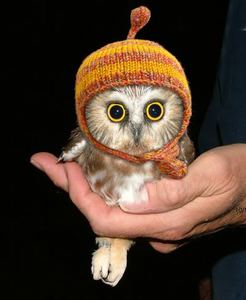
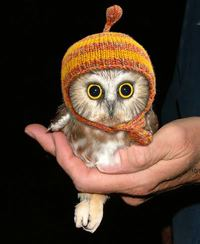
made profile pic clickable to see public profile

diff --git a/app/models/user_profile.rb b/app/models/user_profile.rb
@@ -2,7 +2,7 @@ class UserProfile < ActiveRecord::Base
 	belongs_to :user
 	
 	has_attached_file :picture, 
-		:styles => { medium: "300x300>", thumb: "100x100>", large: "600x600>"},
+		:styles => { medium: "200x250>", thumb: "100x100>", large: "600x600>"},
 		:default_url => "/pictures/:style_missing.png"
 		validates_attachment :picture, content_type: { content_type: ["image/jpg", "image/jpeg", "image/png"]}
 end
